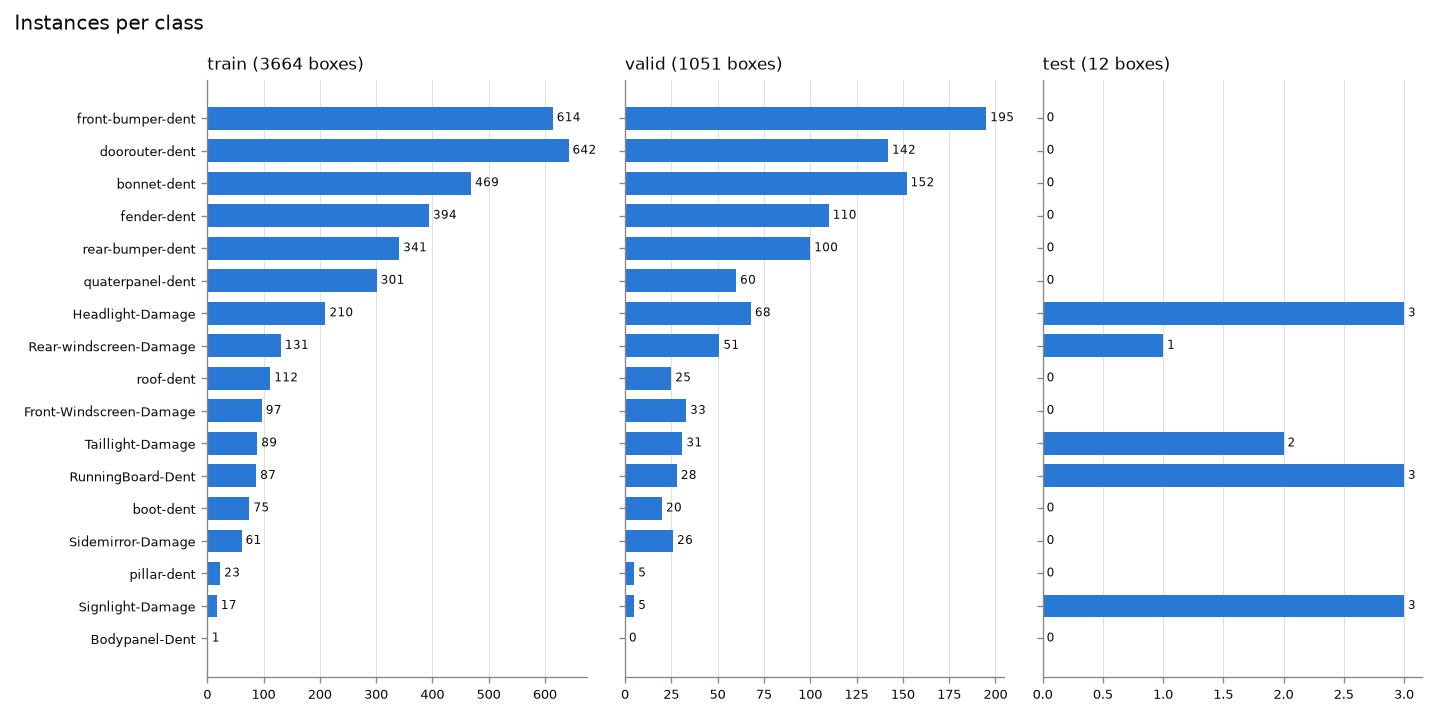
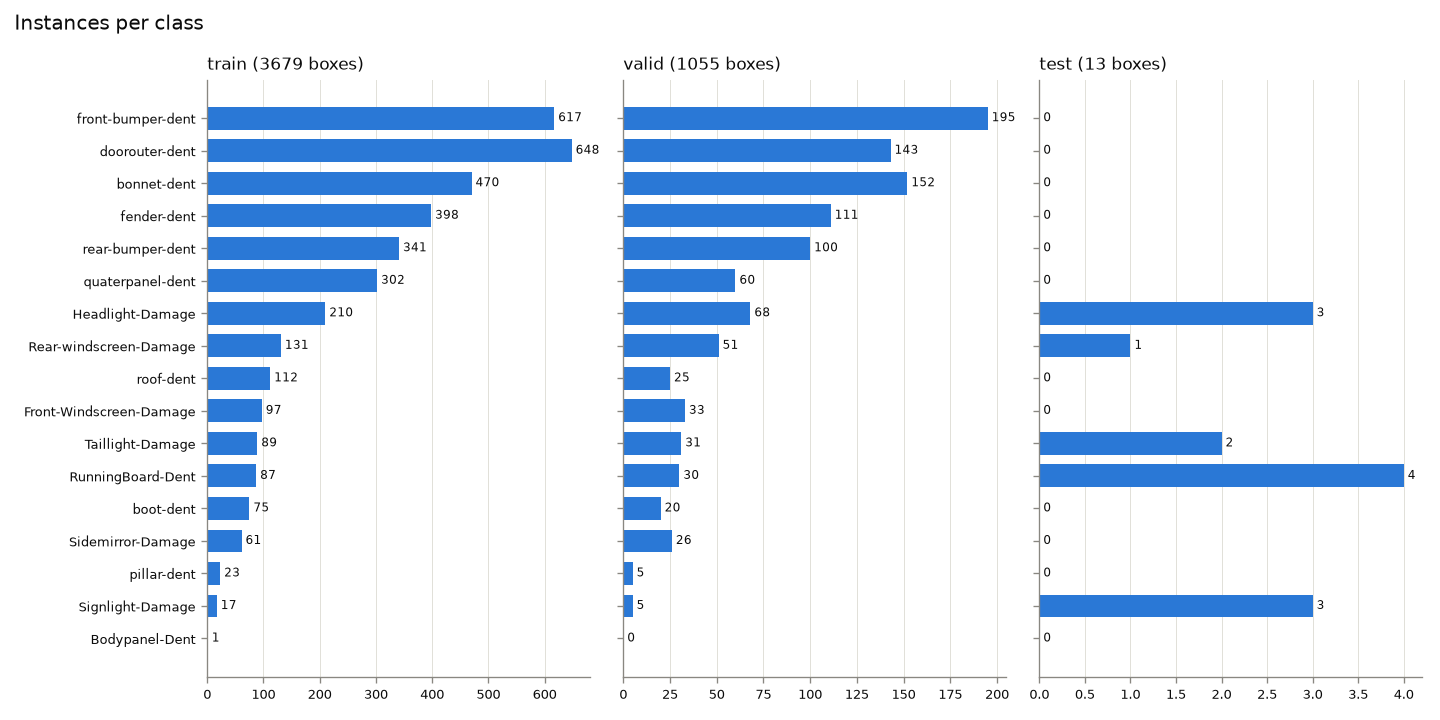
Fix cross-platform split mismatch caught by the Colab checksum
- Local raw copy was missing 7 images: Windows Explorer silently skipped
  paths over 260 chars when extracting the zip. download_data.py now checks
  the image count against Roboflow's README; --force wipes the folder first.
- WindowsPath sorts case-insensitively, PosixPath does not, so the seeded
  shuffle saw a different order on Colab. Sort image files by plain name.
- Re-ran audits on the complete 3,058-image export; updated README numbers
  and the expected manifest MD5 in the Colab notebook.

diff --git a/src/download_data.py b/src/download_data.py
@@ -11,6 +11,8 @@ Usage:
 
 import argparse
 import os
+import re
+import shutil
 import sys
 from pathlib import Path
 
@@ -29,12 +31,24 @@ IMAGE_EXTS = {".jpg", ".jpeg", ".png", ".bmp", ".webp"}
 
 
 def summarize(root: Path) -> None:
-    """Print image/label counts for every split folder found in the download."""
+    """Print image/label counts per split and check the total against Roboflow's README.
+
+    The check exists because a manual zip extraction with Windows Explorer silently skipped
+    7 images whose paths exceeded 260 characters.
+    """
+    total = 0
     for split_dir in sorted(p for p in root.iterdir() if p.is_dir()):
         images = [p for p in (split_dir / "images").glob("*") if p.suffix.lower() in IMAGE_EXTS]
         labels = list((split_dir / "labels").glob("*.txt"))
         if images or labels:
             print(f"  {split_dir.name:<6} images={len(images):>5}  labels={len(labels):>5}")
+            total += len(images)
+
+    readme = root / "README.roboflow.txt"
+    match = re.search(r"includes (\d+) images", readme.read_text()) if readme.exists() else None
+    if match and int(match.group(1)) != total:
+        sys.exit(f"ERROR: found {total} images but Roboflow lists {match.group(1)}. Re-download with --force.")
+    print(f"  total  images={total:>5}" + (" (matches Roboflow README)" if match else ""))
 
 
 def main() -> None:
@@ -44,7 +58,7 @@ def main() -> None:
     parser.add_argument("--version", type=int, default=DEFAULT_VERSION)
     parser.add_argument("--format", default=DEFAULT_FORMAT)
     parser.add_argument("--out", type=Path, default=Path("data/raw/car-damage-v2"))
-    parser.add_argument("--force", action="store_true", help="re-download even if the folder exists")
+    parser.add_argument("--force", action="store_true", help="delete the folder and download again")
     args = parser.parse_args()
 
     out = args.out
@@ -59,6 +73,9 @@ def main() -> None:
         sys.exit("ROBOFLOW_API_KEY is not set. Copy .env.example to .env and add your key.")
 
     from roboflow import Roboflow  # imported late so --help works without the package
+
+    if out.exists():
+        shutil.rmtree(out)  # --force: start clean so no stale files survive
 
     rf = Roboflow(api_key=api_key)
     version = rf.workspace(args.workspace).project(args.project).version(args.version)

diff --git a/src/data_audit.py b/src/data_audit.py
@@ -116,7 +116,9 @@ def load_dataset(root: Path, names: list[str]) -> tuple[list[dict], list[str]]:
         image_dir, label_dir = root / split / "images", root / split / "labels"
         if not image_dir.is_dir():
             continue
-        images = sorted(p for p in image_dir.iterdir() if p.suffix.lower() in IMAGE_EXTS)
+        # Sort by the plain file name: WindowsPath sorts case-insensitively, PosixPath does not,
+        # and the record order feeds the seeded shuffle in clean_data (split must match on Colab).
+        images = sorted((p for p in image_dir.iterdir() if p.suffix.lower() in IMAGE_EXTS), key=lambda p: p.name)
         image_stems = {p.stem for p in images}
         orphan_labels += [str(p) for p in label_dir.glob("*.txt") if p.stem not in image_stems]
 

diff --git a/README.md b/README.md
@@ -49,32 +49,32 @@ corrupted files, and image/box size distributions. `src/clean_data.py` applies t
 writes a new dataset version. Full reports: [`reports/data_audit/raw`](reports/data_audit/raw/audit.md)
 and [`reports/data_audit/clean`](reports/data_audit/clean/audit.md).
 
-**What the audit found in the raw export (3,051 images, 4,727 boxes):**
+**What the audit found in the raw export (3,058 images, 4,747 boxes):**
 
 | Finding | Count | Action |
 |---|---|---|
-| Near-duplicate images (pHash distance ≤ 10) | 151 groups, 169 redundant images | Keep one per group (most boxes, then highest resolution) |
+| Near-duplicate images (pHash distance ≤ 10) | 152 groups, 170 redundant images | Keep one per group (most boxes, then highest resolution) |
 | …of which span different splits (train/valid/test **leakage**) | 65 groups | Removed by de-duplication + re-split |
 | …of which the copies are labeled differently | 44 groups | Same as above. This shows annotation inconsistency |
-| Images with an empty label file | 70 (69 of the 78 test images) | Dropped. Visual check: they show clear damage, so labels are missing |
+| Images with an empty label file | 70 (69 of the 79 test images) | Dropped. Visual check: they show clear damage, so labels are missing |
 | Degenerate boxes (< 2 px side) | 3 | Dropped |
 | Duplicate boxes (same class, IoU ≥ 0.9) | 1 | Dropped |
 | `Bodypanel-Dent` class | 1 instance (a degenerate box) | Class removed → 16 classes |
 | Corrupted images / unknown class ids / out-of-bounds boxes | 0 | — |
 
-The original test split was effectively unusable: 78 images, but only 12 boxes.
+The original test split was effectively unusable: 79 images, but only 13 boxes.
 
 **Before → after**
 
 | | Raw | Clean |
 |---|---|---|
-| Images | 3,051 | 2,821 |
-| Boxes | 4,727 | 4,510 |
+| Images | 3,058 | 2,827 |
+| Boxes | 4,747 | 4,527 |
 | Classes | 17 | 16 |
-| Split (train / val / test images) | 2,296 / 677 / 78 | 1,993 / 421 / 407 |
-| Test boxes | 12 | 681 |
+| Split (train / val / test images) | 2,301 / 678 / 79 | 1,976 / 424 / 427 |
+| Test boxes | 13 | 681 |
 | Cross-split near-duplicate groups | 65 | 0 |
-| Imbalance (largest / smallest class) | 809 | 34.7 |
+| Imbalance (largest / smallest class) | 812 | 35.0 |
 
 **Key decisions**
 
@@ -85,15 +85,21 @@ The original test split was effectively unusable: 78 images, but only 12 boxes.
   repeat across *different* photos, which I checked visually.
 - **Re-split 70/15/15, seed 42, stratified on each image's rarest class** so that rare classes
   (`pillar-dent`, `Signlight-Damage`) still appear in val/test. Running the cleaning script twice
-  produces an identical `manifest.csv`.
+  produces an identical `manifest.csv`, and the Colab notebook checks its MD5 against the local
+  build before training.
+- **Cross-platform reproducibility bugs caught by that checksum.** (1) Extracting the Roboflow zip
+  with Windows Explorer silently skipped 7 images whose paths exceeded 260 characters.
+  `download_data.py` now checks the image count against Roboflow's README. (2) `WindowsPath`
+  sorts case-insensitively, while Linux sorts case-sensitively, so the seeded shuffle saw a
+  different order. Files are now sorted by plain name.
 
 **Things the audit surfaced that cleaning cannot fix** (they feed into Limitations):
 
-- **Low resolution.** 1,644 / 2,821 images (58%) have a longest side under 320 px (e.g. 259×194
-  thumbnails). 69% are under 640 px.
-- **Rare classes.** `pillar-dent` (28 boxes) and `Signlight-Damage` (22) leave only 3–5 test
+- **Low resolution.** 1,644 / 2,827 images (58%) have a longest side under 320 px (e.g. 259×194
+  thumbnails). 68% are under 640 px.
+- **Rare classes.** `pillar-dent` (28 boxes) and `Signlight-Damage` (22) leave only 3–4 test
   instances, so their per-class AP will be noisy.
-- **Label style.** Boxes are large (median box covers 12.6% of the image; no box is below 0.1%), so
+- **Label style.** Boxes are large (median box covers 12.5% of the image; no box is below 0.1%), so
   this is a coarse "damaged region per part" dataset, not a fine-grained scratch dataset. Some
   boxes are loose, and overlapping part classes are common (e.g. `Headlight-Damage` inside
   `front-bumper-dent`).

diff --git a/reports/data_audit/raw/audit.md b/reports/data_audit/raw/audit.md
@@ -2,32 +2,32 @@
 
 | | train | valid | test | total |
 |---|---|---|---|---|
-| images | 2296 | 677 | 78 | 3051 |
-| boxes | 3664 | 1051 | 12 | 4727 |
+| images | 2301 | 678 | 79 | 3058 |
+| boxes | 3679 | 1055 | 13 | 4747 |
 
 ## Class distribution (instances)
 
 | class | train | valid | test | total |
 |---|---|---|---|---|
-| front-bumper-dent | 614 | 195 | 0 | 809 |
-| doorouter-dent | 642 | 142 | 0 | 784 |
-| bonnet-dent | 469 | 152 | 0 | 621 |
-| fender-dent | 394 | 110 | 0 | 504 |
+| front-bumper-dent | 617 | 195 | 0 | 812 |
+| doorouter-dent | 648 | 143 | 0 | 791 |
+| bonnet-dent | 470 | 152 | 0 | 622 |
+| fender-dent | 398 | 111 | 0 | 509 |
 | rear-bumper-dent | 341 | 100 | 0 | 441 |
-| quaterpanel-dent | 301 | 60 | 0 | 361 |
+| quaterpanel-dent | 302 | 60 | 0 | 362 |
 | Headlight-Damage | 210 | 68 | 3 | 281 |
 | Rear-windscreen-Damage | 131 | 51 | 1 | 183 |
 | roof-dent | 112 | 25 | 0 | 137 |
 | Front-Windscreen-Damage | 97 | 33 | 0 | 130 |
 | Taillight-Damage | 89 | 31 | 2 | 122 |
-| RunningBoard-Dent | 87 | 28 | 3 | 118 |
+| RunningBoard-Dent | 87 | 30 | 4 | 121 |
 | boot-dent | 75 | 20 | 0 | 95 |
 | Sidemirror-Damage | 61 | 26 | 0 | 87 |
 | pillar-dent | 23 | 5 | 0 | 28 |
 | Signlight-Damage | 17 | 5 | 3 | 25 |
 | Bodypanel-Dent | 1 | 0 | 0 | 1 |
 
-Imbalance ratio (largest / smallest class): **809.0**
+Imbalance ratio (largest / smallest class): **812.0**
 
 ## Issues
 
@@ -37,16 +37,16 @@ Imbalance ratio (largest / smallest class): **809.0**
 
 ## Duplicates
 
-- near duplicate pairs: 186
-- groups: 151
-- images in groups: 320
-- redundant images: 169
+- near duplicate pairs: 187
+- groups: 152
+- images in groups: 322
+- redundant images: 170
 - cross split groups: 65
 - groups with label conflicts: 44
 
 ## Images and boxes
 
-- Unique image sizes: 595; most common: [['259x194', 491], ['275x183', 223], ['1600x1200', 194], ['300x168', 104], ['800x533', 95]]
+- Unique image sizes: 595; most common: [['259x194', 491], ['275x183', 223], ['1600x1200', 194], ['300x168', 104], ['800x533', 100]]
 - Aspect ratio (w/h): {'min': 0.46, 'median': 1.35, 'max': 3.39}
-- Box area / image area: {'p05': 0.0197, 'median': 0.1316, 'p95': 0.6356, 'tiny_share': 0.0006}
+- Box area / image area: {'p05': 0.0197, 'median': 0.1308, 'p95': 0.6346, 'tiny_share': 0.0006}
 - Boxes per image (mean): 1.55

diff --git a/reports/data_audit/clean/audit.md b/reports/data_audit/clean/audit.md
@@ -2,31 +2,31 @@
 
 | | train | val | test | total |
 |---|---|---|---|---|
-| images | 1993 | 421 | 407 | 2821 |
-| boxes | 3148 | 681 | 681 | 4510 |
+| images | 1976 | 424 | 427 | 2827 |
+| boxes | 3162 | 684 | 681 | 4527 |
 
 ## Class distribution (instances)
 
 | class | train | val | test | total |
 |---|---|---|---|---|
-| doorouter-dent | 534 | 115 | 115 | 764 |
-| front-bumper-dent | 528 | 114 | 114 | 756 |
-| bonnet-dent | 419 | 90 | 90 | 599 |
-| fender-dent | 342 | 74 | 74 | 490 |
+| doorouter-dent | 537 | 116 | 116 | 769 |
+| front-bumper-dent | 531 | 114 | 114 | 759 |
+| bonnet-dent | 420 | 90 | 90 | 600 |
+| fender-dent | 347 | 74 | 74 | 495 |
 | rear-bumper-dent | 283 | 61 | 61 | 405 |
 | quaterpanel-dent | 245 | 53 | 53 | 351 |
 | Headlight-Damage | 185 | 40 | 40 | 265 |
 | Rear-windscreen-Damage | 122 | 27 | 26 | 175 |
 | roof-dent | 92 | 20 | 20 | 132 |
 | Front-Windscreen-Damage | 89 | 19 | 19 | 127 |
-| RunningBoard-Dent | 78 | 17 | 17 | 112 |
-| Taillight-Damage | 75 | 16 | 17 | 108 |
-| boot-dent | 66 | 15 | 14 | 95 |
+| RunningBoard-Dent | 80 | 18 | 17 | 115 |
+| Taillight-Damage | 75 | 17 | 16 | 108 |
+| boot-dent | 66 | 14 | 15 | 95 |
 | Sidemirror-Damage | 56 | 12 | 13 | 81 |
-| pillar-dent | 19 | 4 | 5 | 28 |
+| pillar-dent | 19 | 5 | 4 | 28 |
 | Signlight-Damage | 15 | 4 | 3 | 22 |
 
-Imbalance ratio (largest / smallest class): **34.7**
+Imbalance ratio (largest / smallest class): **35.0**
 
 ## Issues
 
@@ -45,7 +45,7 @@ Imbalance ratio (largest / smallest class): **34.7**
 
 ## Images and boxes
 
-- Unique image sizes: 566; most common: [['259x194', 452], ['275x183', 199], ['1600x1200', 194], ['300x168', 96], ['800x533', 91]]
+- Unique image sizes: 566; most common: [['259x194', 452], ['275x183', 199], ['1600x1200', 194], ['300x168', 96], ['800x533', 96]]
 - Aspect ratio (w/h): {'min': 0.46, 'median': 1.34, 'max': 3.39}
-- Box area / image area: {'p05': 0.0195, 'median': 0.1256, 'p95': 0.6239, 'tiny_share': 0.0}
+- Box area / image area: {'p05': 0.0195, 'median': 0.1246, 'p95': 0.6238, 'tiny_share': 0.0}
 - Boxes per image (mean): 1.6
